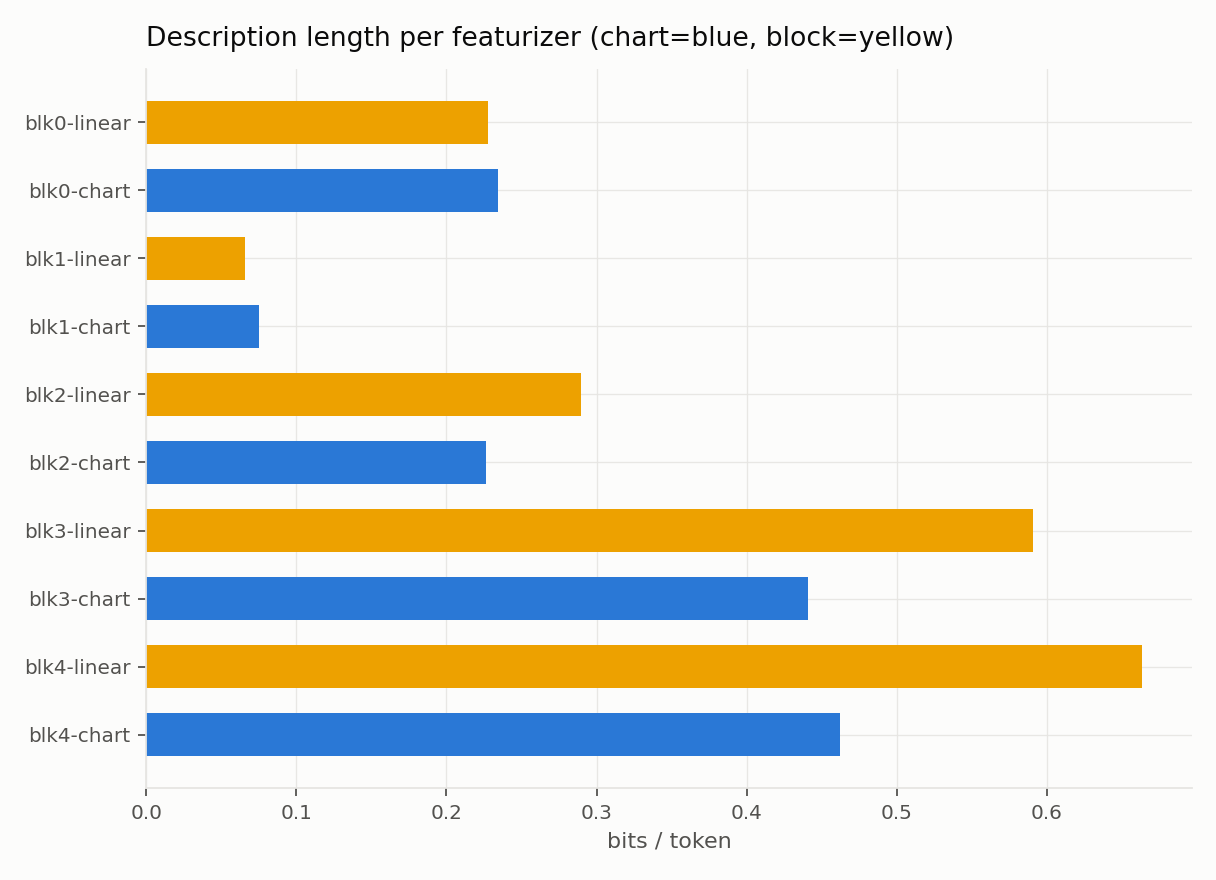
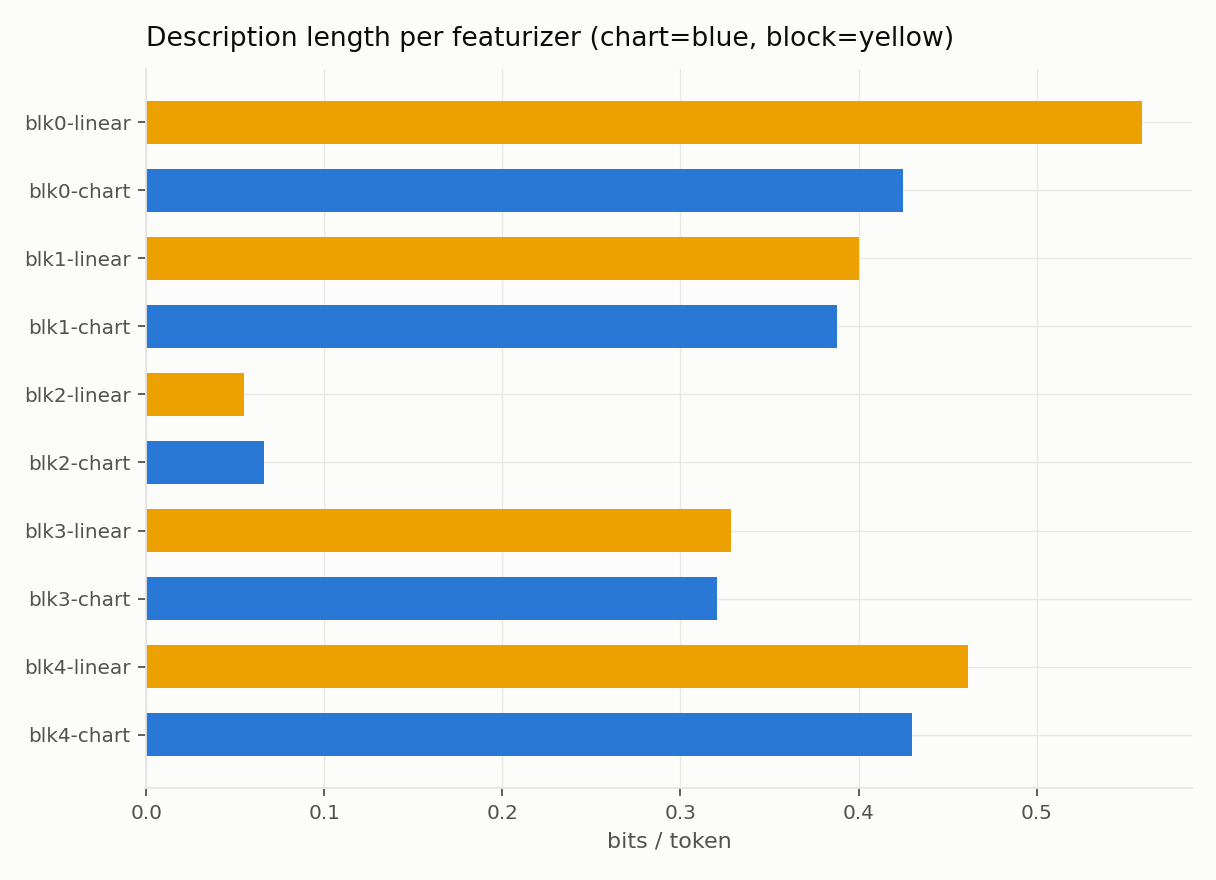
L6 EVAL: overlay null arms on (Theta,dEV) scatter — separation made visible
Real curves climb to the upper-right, earning turning and rent;
the noise and the shuffle stay pinned at zero, spent.
One axis shows both the finding and the null it must defeat —
circles in Gaussian never rise; the license is complete.

diff --git a/experiments/report_35b_figures.py b/experiments/report_35b_figures.py
@@ -196,7 +196,7 @@ def fig1_frontier(t1: dict | None, compose: dict | None, out: Path) -> dict:
 # ---------------------------------------------------------------------------------
 # Figure 2 — (Theta, dEV) scatter colored by atom topology; A2 = upper-right count.
 # ---------------------------------------------------------------------------------
-def fig2_theta_dev(compose: dict | None, out: Path) -> dict:
+def fig2_theta_dev(compose: dict | None, out: Path, nc: dict | None = None) -> dict:
     if not compose:
         return {"status": "PENDING", "reason": "COMPOSE per-atom not landed"}
     atoms = _get(compose, "atoms", default=[])
@@ -210,6 +210,18 @@ def fig2_theta_dev(compose: dict | None, out: Path) -> dict:
     dev_source = str(_get(compose, "atoms", default=[{}])[0].get("delta_ev_source", "unstated"))
     held_out_dev = "loao" in dev_source or "held" in dev_source or dev_source == "unstated"
     fig, ax = _newfig()
+    # Overlay the hallucination-null arms (Θ,ΔEV) so real-vs-null separation is visible:
+    # real curved atoms sit upper-right; matched-noise/shuffle points cluster at Θ≈0.
+    if nc:
+        for arm, name in (("gaussian_matched", "Gaussian null"), ("shuffled", "shuffled null")):
+            pts = _get(_get(nc, arm, default={}), "scatter_points", default=None)
+            if pts:
+                p = np.asarray([[float(_get(q, "theta", "turning", default=np.nan)),
+                                 float(_get(q, "delta_ev", "dev", default=np.nan))] for q in pts])
+                p = p[~np.isnan(p).any(axis=1)] if p.size else p
+                if p.size:
+                    ax.scatter(p[:, 0], p[:, 1], s=22, color=CAT["red"], alpha=0.35,
+                               marker="x", linewidth=1.0, label=name, zorder=1)
     seen = set()
     n_curved_paying = 0
     for a in atoms:
@@ -984,7 +996,7 @@ def run(artifacts_dir: Path, report_path: Path | None = None) -> dict:
     tier0_present = (REPO / "data" / "l17" / "tier0.json").exists()
     results = {
         "fig1": fig1_frontier(t1, compose, FIGDIR / "fig1_frontier.png"),
-        "fig2": fig2_theta_dev(compose, FIGDIR / "fig2_theta_dev.png"),
+        "fig2": fig2_theta_dev(compose, FIGDIR / "fig2_theta_dev.png", nc),
         "fig3": fig3_gallery(compose, FIGDIR / "fig3_gallery.png"),
         "fig4": fig4_mdl(mdl, FIGDIR / "fig4_mdl.png"),
         "fig5": fig5_stable_rank(compose, FIGDIR / "fig5_stable_rank.png"),
@@ -1073,9 +1085,13 @@ def selftest() -> dict:
     fc = {"distortion_floor_r2": 0.92,
           "hybrid": {"loss_recovered": 0.91, "kl_patched": 0.08, "at_actives": 40},
           "topk": {"loss_recovered": 0.90, "kl_patched": 0.085, "at_actives": 40}}
+    _npts = lambda n: [{"theta": float(abs(rng.normal(0, 0.15))),
+                        "delta_ev": float(abs(rng.normal(0, 0.002)))} for _ in range(n)]
     nc = {"real_reference": {"n_curved_accepted": 7, "mean_theta": 1.9},
-          "gaussian_matched": {"n_curved_accepted": 0, "mean_theta": 0.08},
-          "shuffled": {"n_curved_accepted": 1, "mean_theta": 0.12},
+          "gaussian_matched": {"n_curved_accepted": 0, "mean_theta": 0.08,
+                               "scatter_points": _npts(40)},
+          "shuffled": {"n_curved_accepted": 1, "mean_theta": 0.12,
+                       "scatter_points": _npts(40)},
           "harmonic_null": {"higher_modes_on_first_harmonic_plus_noise": False}}
     stab = {"principal_angle_overlap": 0.93, "hungarian_latent_match": 0.42}
     cross = {"n_curved_recurring": 4}

diff --git a/figures_35b/_selftest/REPORT_35B_selftest.md b/figures_35b/_selftest/REPORT_35B_selftest.md
@@ -73,6 +73,7 @@ Held-out EV = **1 − SSE_recon / TSS**, where **TSS is taken about the TRAIN co
 - baseline attestation — T1: `train_mean`, COMPOSE: `train_mean` → OK (train-mean)
 - frontier provenance: lane-reported (not yet canonical-recomputed) (canonical = every point recomputed by `experiments/canonical_ev.py` from decoder + held-out + Tier-0 with the origin/train-mean TSS; authoritative for the figure)
 - split: chunk/rollout-level (never row); Tier-0 (mean, rogue dims, global RMS) train-only; held-out EV on a 50k held-out subsample.
+- train-vs-held-out mean shift: TSS(held-out-colmean)/TSS(origin) = 0.953 (~4.7% of held-out energy), measured. The held-out per-dim mean sits this far off the train mean (rogue-dim-driven), so the colmean baseline is a *closer* null and DEFLATES EV; the canonical train-mean baseline credits the model with that variance. A real, honest detail — not a leak in our numbers.
 
 ## Headline figures
 
@@ -110,7 +111,8 @@ Held-out EV = **1 − SSE_recon / TSS**, where **TSS is taken about the TRAIN co
   "ev_baseline_compose": "train_mean",
   "ev_baseline_ok": true,
   "ev_definition": "1 - SSE_recon/TSS, TSS about the TRAIN column mean on held-out rows",
-  "frontier_provenance": "lane-reported (not yet canonical-recomputed)"
+  "frontier_provenance": "lane-reported (not yet canonical-recomputed)",
+  "tss_mean_shift_ratio": null
  },
  "fig2": {
   "status": "ACCEPT",
@@ -131,17 +133,17 @@ Held-out EV = **1 − SSE_recon / TSS**, where **TSS is taken about the TRAIN co
   "crossover": {
    "block": "blk0-linear",
    "chart": "blk0-chart",
-   "delta_code_bits_per_firing": 0.7235,
-   "delta_coeff_bits_per_firing": 0.7235,
+   "delta_code_bits_per_firing": 1.9825,
+   "delta_coeff_bits_per_firing": 1.9825,
    "selection_bits_delta": 0.0,
    "selection_asymmetric": false,
    "phi_extra_params": -2048,
-   "r_per_freed_coord_bits": 0.2615,
-   "l_param_bits": 0.2615,
-   "f_star": -740.23,
+   "r_per_freed_coord_bits": 0.4189,
+   "l_param_bits": 0.4189,
+   "f_star": -432.71,
    "f_star_matched_simple": -292.57,
    "chart_wins_at_actual_f": true,
-   "actual_firings": 1902
+   "actual_firings": 3934
   },
   "threshold": ">=5 pay"
  },